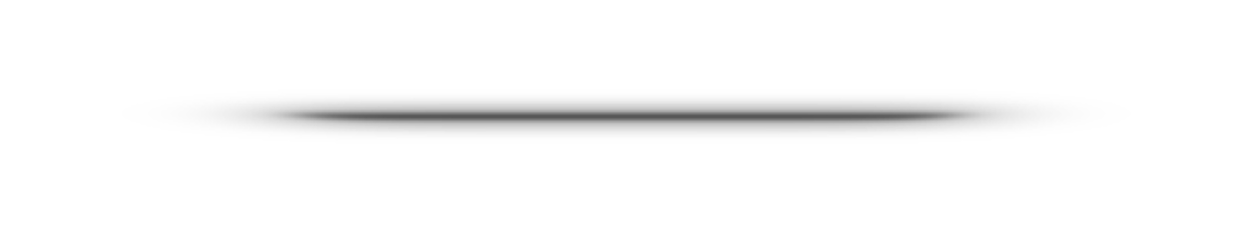
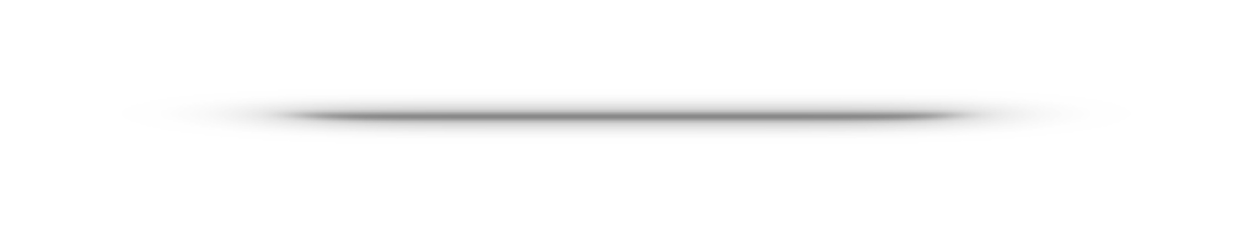
updated

Changed region(s): [[0.217, 0.4468, 0.775, 0.5362]]

diff --git a/src/views/MockSection.vue b/src/views/MockSection.vue
@@ -46,7 +46,7 @@
             <div class="questions-notes-mock-sec">
                 <div class="container">
                     <div class="question-note-boxes">
-                        <div class="question-box" data-aos="fade-right" data-aos-delay="0" data-aos-duration="800">
+                        <div class="question-box" data-aos="fade-up" data-aos-delay="0" data-aos-duration="800">
                             <h3><img src="/images/questionmark.png" alt=""> Question</h3>
                             <div class="question-score">
                                 <h6>score</h6>
@@ -77,7 +77,7 @@
                                 <img src="/images/cardshadow.png" alt="">
                             </div>
                         </div>
-                        <div class="mock-box" data-aos="fade-left" data-aos-delay="200" data-aos-duration="800">
+                        <div class="mock-box" data-aos="fade-up" data-aos-delay="200" data-aos-duration="800">
                             <h3><img src="/images/brain.png" alt=""> Mocks</h3>
                             <div class="question-score">
                                 <h6>score</h6>

diff --git a/src/styles/global.css b/src/styles/global.css
@@ -31,9 +31,12 @@
     box-sizing: border-box;
 }
 
-html {
+/* html {
     position: relative;
-}
+    width: 100%;
+    height: 100%;
+    bottom: 0;
+} */
 
 
 /********** Container CSS Start **********/
@@ -210,12 +213,10 @@ section.homepg-sec {
 
 .homemock-card {
     border-radius: 12px;
-    box-shadow: 0 4px 10px rgba(0, 0, 0, 0.1);
     text-align: center;
     transition: transform 0.3s ease-in-out;
     border-radius: 40px;
     position: relative;
-    box-shadow: 0px 15px 10px -15px #111; 
     cursor:pointer
 }
 
@@ -543,7 +544,8 @@ section.login-signup-sec {
 }
 
 .userlogin-sec .cardbottom-shadow img {
-    left: -70px !important;
+    left: -80px !important;
+    width: 410px;
 }
 
 /********** UserLogin Page CSS End **********/
@@ -1328,10 +1330,6 @@ button.modal-exit-btn .cardbottom-shadow img {
     padding: 0px 0px 15px 0px;
     color: #BCBEC0;
     font-size: 14px;
-    position: absolute;
-    bottom: 0px;
-    left: 50%;
-    transform: translate(-50%);
 }
 
 

diff --git a/src/components/LoginModal.vue b/src/components/LoginModal.vue
@@ -79,8 +79,8 @@ export default {
 
 
     async login() {
-      const baseUrl = 'http://127.0.0.1:8000/api'
-      // const baseUrl = 'https://staging.imsynapse.com/api'
+      // const baseUrl = 'http://127.0.0.1:8000/api'
+      const baseUrl = 'https://staging.imsynapse.com/api'
 
 
       console.log('remember', this.rememberMe);
@@ -248,8 +248,8 @@ export default {
 }
 
 .submit-btn:hover {
-  background: transparent;
-  color: #9DED6C;
+  background: #20B14B;
+  color: #fff;
 }
 
 /* Custom remember switch */

diff --git a/src/views/HomePage.vue b/src/views/HomePage.vue
@@ -22,9 +22,9 @@
                 <div class="cardbottem-content">
                   <h4>{{ card.question }}</h4>
                   <p>{{ card.description }}</p>
+                  <div class="cardbottom-shadow">
+                   <img src="/images/cardshadow.png" alt="">
                 </div>
-                <div class="cardbottom-shadow">
-                  <img src="/images/cardshadow.png" alt="">
                 </div>
               </div>
             </div>

diff --git a/src/views/lib/api.js b/src/views/lib/api.js
@@ -1,6 +1,6 @@
 import axios from 'axios'
-const baseUrl = 'http://127.0.0.1:8000/api'
-// const baseUrl = 'https://staging.imsynapse.com/api'
+// const baseUrl = 'http://127.0.0.1:8000/api'
+const baseUrl = 'https://staging.imsynapse.com/api'
 
 export function get(url, params) {
     return axios({

diff --git a/src/App.vue b/src/App.vue
@@ -33,7 +33,7 @@ export default {
 
 <style>
 #app {
-  font-family: Avenir, Helvetica, Arial, sans-serif;
+  font-family: Helvetica, Arial, sans-serif;
   -webkit-font-smoothing: antialiased;
   -moz-osx-font-smoothing: grayscale;
   text-align: center;

diff --git a/src/components/HeaderMain.vue b/src/components/HeaderMain.vue
@@ -242,7 +242,7 @@ export default {
 .hamburger-icon span {
   position: absolute;
   width: auto;
-  top: -20px;
+  top: -24px;
   font-size: 11px;
   background-color: #9DED6C;
   padding: 3px 6px;
